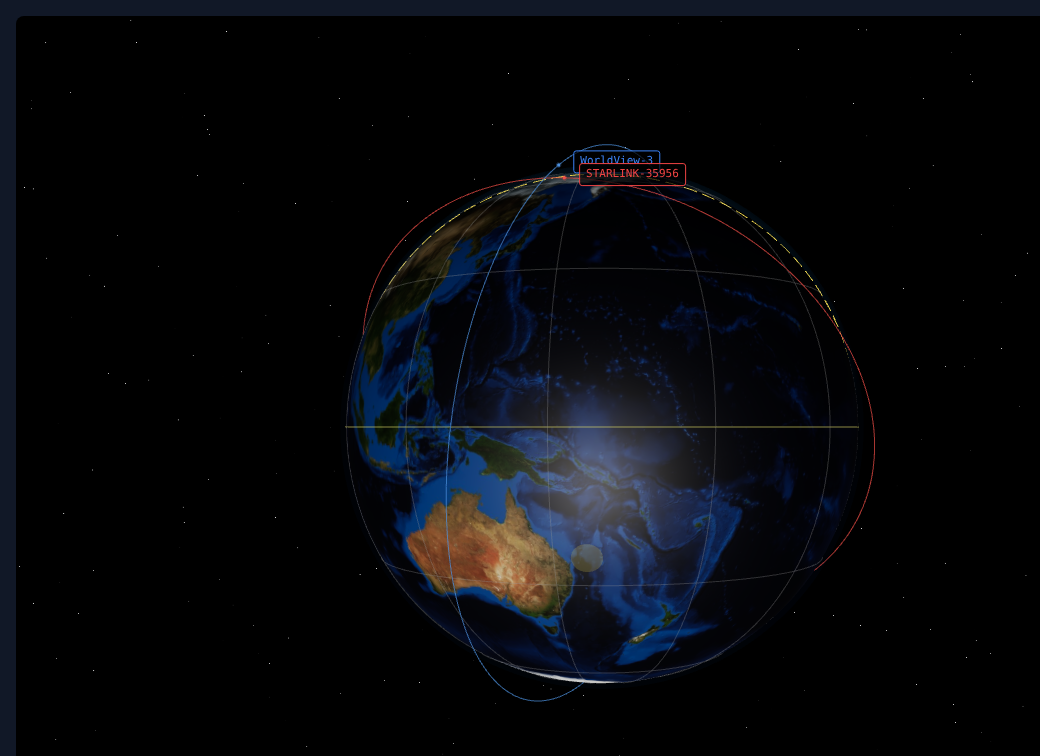
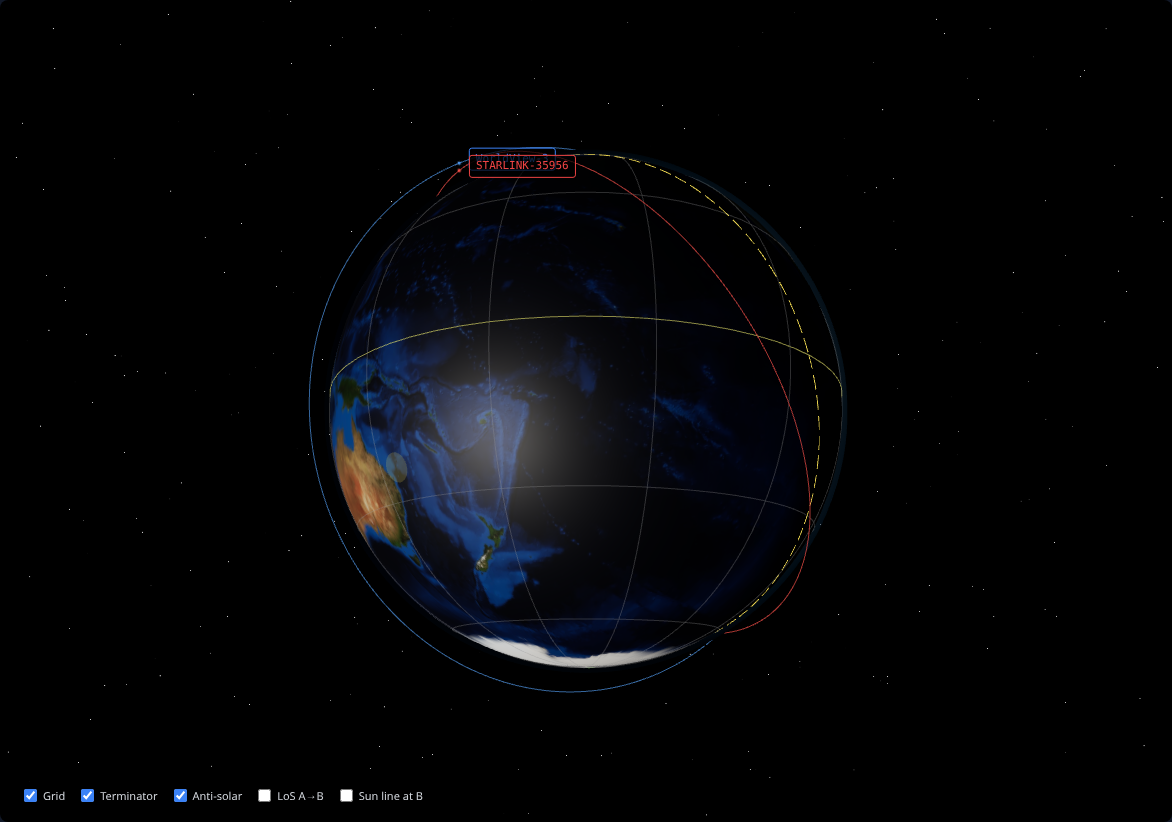
docs: fix main 3D view screenshot with centered Earth and orbits
Rotate globe view to show Earth centered with both orbits
crossing near the center of the view.

🤖 Generated with [Claude Code](https://claude.com/claude-code)

diff --git a/scripts/fix-screenshots.ts b/scripts/fix-screenshots.ts
@@ -71,6 +71,38 @@ async function fixScreenshots() {
     }
   }
 
+  // 3. Fix Main 3D View - center Earth and position orbits to cross in center
+  console.log('3. Capturing Main 3D View...');
+
+  // Reset sidebar scroll
+  await sidebar.evaluate(el => el.scrollTop = 0);
+  await page.waitForTimeout(300);
+
+  const mainViewContainer = page.locator('.rounded-lg.overflow-hidden.bg-black\\/40').first();
+  if (await mainViewContainer.isVisible()) {
+    const box = await mainViewContainer.boundingBox();
+    if (box) {
+      const centerX = box.x + box.width / 2;
+      const centerY = box.y + box.height / 2;
+
+      // First, reset view by double-clicking
+      await page.mouse.dblclick(centerX, centerY);
+      await page.waitForTimeout(500);
+
+      // Rotate to position where orbits cross in center
+      // Drag to rotate globe - adjust to get good orbit intersection view
+      await page.mouse.move(centerX + 120, centerY + 20);
+      await page.mouse.down();
+      await page.mouse.move(centerX - 60, centerY - 60, { steps: 30 });
+      await page.mouse.up();
+      await page.waitForTimeout(500);
+
+      // Capture the main view container
+      await mainViewContainer.screenshot({ path: path.join(SCREENSHOTS_DIR, 'main-3d-view.png') });
+      console.log('   Main 3D View captured');
+    }
+  }
+
   await browser.close();
   console.log('\nScreenshots fixed successfully!');
 }
